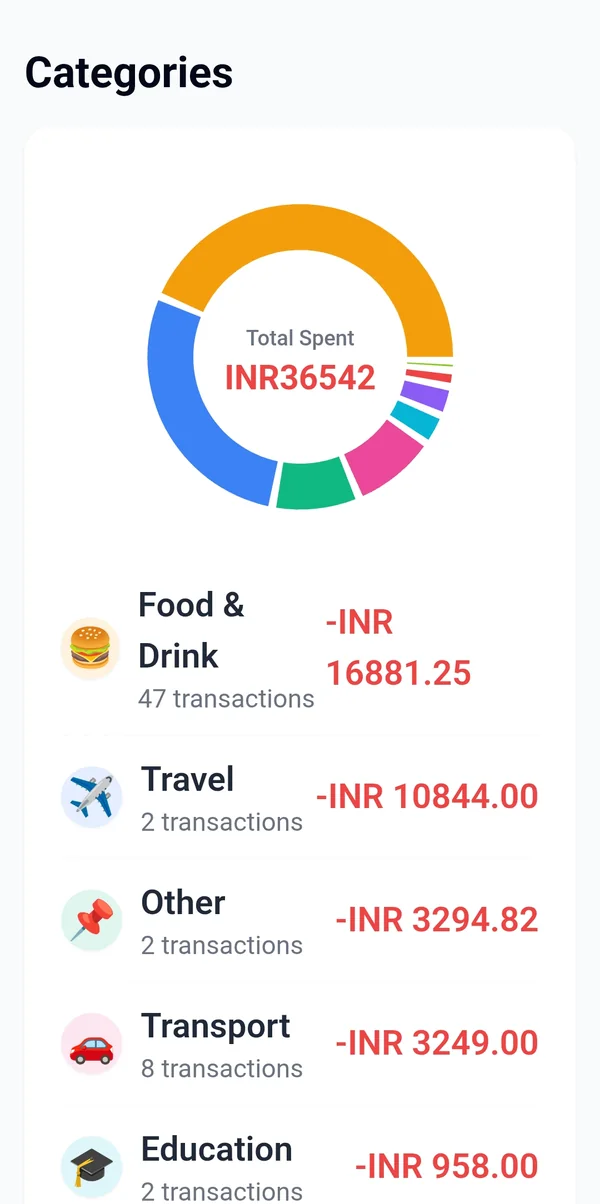
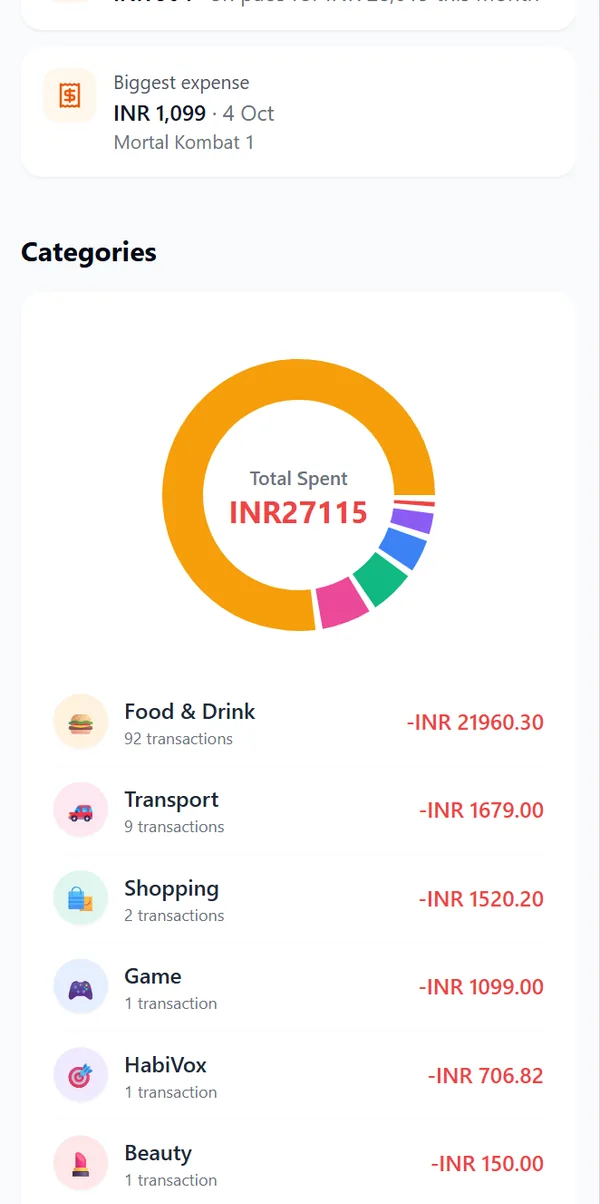
Update screenshots to the October app and describe new features

diff --git a/index.html b/index.html
@@ -82,7 +82,7 @@
       </div>
       <div class="hero__media">
         <div class="phone">
-          <img src="assets/screens/today.webp" width="600" height="1204" alt="HabiVox Today screen showing 93 percent of habits done and a Sleep habit with an 8 hour goal" fetchpriority="high">
+          <img src="assets/screens/today.webp" width="600" height="1204" alt="HabiVox Insights: today's summary at 92 percent, INR 5,200 saved this month by smoking less, and 56 percent monthly consistency" fetchpriority="high">
         </div>
       </div>
     </div>
@@ -98,14 +98,14 @@
           <li><svg class="icon" xmlns="http://www.w3.org/2000/svg" width="24" height="24" viewBox="0 0 24 24" fill="none" stroke="currentColor" stroke-width="1.75" stroke-linecap="round" stroke-linejoin="round" aria-hidden="true"><circle cx="12" cy="12" r="10"/><path d="m9 12 2 2 4-4"/></svg><h3>Yes or no</h3><p>Mark it done for the day.</p></li>
           <li><svg class="icon" xmlns="http://www.w3.org/2000/svg" width="24" height="24" viewBox="0 0 24 24" fill="none" stroke="currentColor" stroke-width="1.75" stroke-linecap="round" stroke-linejoin="round" aria-hidden="true"><line x1="4" x2="20" y1="9" y2="9"/><line x1="4" x2="20" y1="15" y2="15"/><line x1="10" x2="8" y1="3" y2="21"/><line x1="16" x2="14" y1="3" y2="21"/></svg><h3>Count</h3><p>Tap plus or minus as you go.</p></li>
           <li><svg class="icon" xmlns="http://www.w3.org/2000/svg" width="24" height="24" viewBox="0 0 24 24" fill="none" stroke="currentColor" stroke-width="1.75" stroke-linecap="round" stroke-linejoin="round" aria-hidden="true"><path d="M21.3 15.3a2.4 2.4 0 0 1 0 3.4l-2.6 2.6a2.4 2.4 0 0 1-3.4 0L2.7 8.7a2.41 2.41 0 0 1 0-3.4l2.6-2.6a2.41 2.41 0 0 1 3.4 0Z"/><path d="m14.5 12.5 2-2"/><path d="m11.5 9.5 2-2"/><path d="m8.5 6.5 2-2"/><path d="m17.5 15.5 2-2"/></svg><h3>Amount</h3><p>Steps, litres, calories or your own unit.</p></li>
-          <li><svg class="icon" xmlns="http://www.w3.org/2000/svg" width="24" height="24" viewBox="0 0 24 24" fill="none" stroke="currentColor" stroke-width="1.75" stroke-linecap="round" stroke-linejoin="round" aria-hidden="true"><line x1="10" x2="14" y1="2" y2="2"/><line x1="12" x2="15" y1="14" y2="11"/><circle cx="12" cy="14" r="8"/></svg><h3>Duration</h3><p>Start the timer and it logs the minutes.</p></li>
-          <li><svg class="icon" xmlns="http://www.w3.org/2000/svg" width="24" height="24" viewBox="0 0 24 24" fill="none" stroke="currentColor" stroke-width="1.75" stroke-linecap="round" stroke-linejoin="round" aria-hidden="true"><path d="M4.929 4.929 19.07 19.071"/><circle cx="12" cy="12" r="10"/></svg><h3>Quit habits</h3><p>Set a daily maximum, like 3 cups of coffee.</p></li>
+          <li><svg class="icon" xmlns="http://www.w3.org/2000/svg" width="24" height="24" viewBox="0 0 24 24" fill="none" stroke="currentColor" stroke-width="1.75" stroke-linecap="round" stroke-linejoin="round" aria-hidden="true"><line x1="10" x2="14" y1="2" y2="2"/><line x1="12" x2="15" y1="14" y2="11"/><circle cx="12" cy="14" r="8"/></svg><h3>Duration</h3><p>Start a timer, or type the hours and minutes.</p></li>
+          <li><svg class="icon" xmlns="http://www.w3.org/2000/svg" width="24" height="24" viewBox="0 0 24 24" fill="none" stroke="currentColor" stroke-width="1.75" stroke-linecap="round" stroke-linejoin="round" aria-hidden="true"><path d="M4.929 4.929 19.07 19.071"/><circle cx="12" cy="12" r="10"/></svg><h3>Quit habits</h3><p>Set a daily maximum and a cost, and see the money you save.</p></li>
           <li><svg class="icon" xmlns="http://www.w3.org/2000/svg" width="24" height="24" viewBox="0 0 24 24" fill="none" stroke="currentColor" stroke-width="1.75" stroke-linecap="round" stroke-linejoin="round" aria-hidden="true"><path d="M10.268 21a2 2 0 0 0 3.464 0"/><path d="M3.262 15.326A1 1 0 0 0 4 17h16a1 1 0 0 0 .74-1.673C19.41 13.956 18 12.499 18 8A6 6 0 0 0 6 8c0 4.499-1.411 5.956-2.738 7.326"/></svg><h3>Reminders</h3><p>Pick a reminder time for each habit.</p></li>
         </ul>
       </div>
       <div class="feature__media">
         <div class="phone">
-          <img src="assets/screens/habits.webp" width="600" height="1204" alt="List of habits in HabiVox: Work as a count, Drink water in litres, Sleep and Walk with timers, and Drink less caffeine as a quit habit" loading="lazy">
+          <img src="assets/screens/habits.webp" width="600" height="1204" alt="HabiVox Today screen: Smoke less as a quit habit with INR 500 saved today, Sleep at 8 hours 20 minutes, Drink water in litres and Walk in steps" loading="lazy">
         </div>
       </div>
     </div>
@@ -119,7 +119,7 @@
         <p class="lead">A monthly calendar shades each day by how much you got done.</p>
         <ul class="points">
           <li><svg class="icon" xmlns="http://www.w3.org/2000/svg" width="24" height="24" viewBox="0 0 24 24" fill="none" stroke="currentColor" stroke-width="1.75" stroke-linecap="round" stroke-linejoin="round" aria-hidden="true"><path d="M8 2v4"/><path d="M16 2v4"/><rect width="18" height="18" x="3" y="4" rx="2"/><path d="M3 10h18"/><path d="M8 14h.01"/><path d="M12 14h.01"/><path d="M16 14h.01"/><path d="M8 18h.01"/><path d="M12 18h.01"/><path d="M16 18h.01"/></svg><h3>Calendar view</h3><p>The whole month at a glance.</p></li>
-          <li><svg class="icon" xmlns="http://www.w3.org/2000/svg" width="24" height="24" viewBox="0 0 24 24" fill="none" stroke="currentColor" stroke-width="1.75" stroke-linecap="round" stroke-linejoin="round" aria-hidden="true"><path d="M3 3v16a2 2 0 0 0 2 2h16"/><path d="M18 17V9"/><path d="M13 17V5"/><path d="M8 17v-3"/></svg><h3>Per habit</h3><p>Days hit out of days tracked.</p></li>
+          <li><svg class="icon" xmlns="http://www.w3.org/2000/svg" width="24" height="24" viewBox="0 0 24 24" fill="none" stroke="currentColor" stroke-width="1.75" stroke-linecap="round" stroke-linejoin="round" aria-hidden="true"><path d="M3 3v16a2 2 0 0 0 2 2h16"/><path d="M18 17V9"/><path d="M13 17V5"/><path d="M8 17v-3"/></svg><h3>Per habit</h3><p>Average, best and worst day, and whether it is slipping.</p></li>
           <li><svg class="icon" xmlns="http://www.w3.org/2000/svg" width="24" height="24" viewBox="0 0 24 24" fill="none" stroke="currentColor" stroke-width="1.75" stroke-linecap="round" stroke-linejoin="round" aria-hidden="true"><path d="M16 7h6v6"/><path d="m22 7-8.5 8.5-5-5L2 17"/></svg><h3>Monthly consistency</h3><p>One number for the whole month.</p></li>
           <li><svg class="icon" xmlns="http://www.w3.org/2000/svg" width="24" height="24" viewBox="0 0 24 24" fill="none" stroke="currentColor" stroke-width="1.75" stroke-linecap="round" stroke-linejoin="round" aria-hidden="true"><path d="m17 2 4 4-4 4"/><path d="M3 11v-1a4 4 0 0 1 4-4h14"/><path d="m7 22-4-4 4-4"/><path d="M21 13v1a4 4 0 0 1-4 4H3"/></svg><h3>Past entries</h3><p>Forgot yesterday? Log it later.</p></li>
         </ul>
@@ -127,10 +127,10 @@
       <div class="feature__media">
         <div class="phones">
           <div class="phone">
-            <img src="assets/screens/calendar.webp" width="600" height="1204" alt="HabiVox calendar for May 2026 with completed days shaded green" loading="lazy">
+            <img src="assets/screens/calendar.webp" width="600" height="1204" alt="HabiVox calendar for October 2026 with each day shaded green by how much got done" loading="lazy">
           </div>
           <div class="phone">
-            <img src="assets/screens/consistency.webp" width="600" height="1204" alt="HabiVox insights showing 62 percent monthly consistency and progress for Sleep, Walk and Drink water" loading="lazy">
+            <img src="assets/screens/consistency.webp" width="600" height="1204" alt="HabiVox habit details for Drink water and Walk: average, best day, worst day and a Declining label" loading="lazy">
           </div>
         </div>
       </div>
@@ -146,17 +146,18 @@
         <ul class="points">
           <li><svg class="icon" xmlns="http://www.w3.org/2000/svg" width="24" height="24" viewBox="0 0 24 24" fill="none" stroke="currentColor" stroke-width="1.75" stroke-linecap="round" stroke-linejoin="round" aria-hidden="true"><path d="M19 7V4a1 1 0 0 0-1-1H5a2 2 0 0 0 0 4h15a1 1 0 0 1 1 1v4h-3a2 2 0 0 0 0 4h3a1 1 0 0 0 1-1v-2a1 1 0 0 0-1-1"/><path d="M3 5v14a2 2 0 0 0 2 2h15a1 1 0 0 0 1-1v-4"/></svg><h3>Income and expenses</h3><p>With a running balance.</p></li>
           <li><svg class="icon" xmlns="http://www.w3.org/2000/svg" width="24" height="24" viewBox="0 0 24 24" fill="none" stroke="currentColor" stroke-width="1.75" stroke-linecap="round" stroke-linejoin="round" aria-hidden="true"><path d="M13.172 2a2 2 0 0 1 1.414.586l6.71 6.71a2.4 2.4 0 0 1 0 3.408l-4.592 4.592a2.4 2.4 0 0 1-3.408 0l-6.71-6.71A2 2 0 0 1 6 9.172V3a1 1 0 0 1 1-1z"/><path d="M2 7v6.172a2 2 0 0 0 .586 1.414l6.71 6.71a2.4 2.4 0 0 0 3.191.193"/><circle cx="10.5" cy="6.5" r=".5" fill="currentColor"/></svg><h3>Categories</h3><p>A total for food, travel and the rest.</p></li>
-          <li><svg class="icon" xmlns="http://www.w3.org/2000/svg" width="24" height="24" viewBox="0 0 24 24" fill="none" stroke="currentColor" stroke-width="1.75" stroke-linecap="round" stroke-linejoin="round" aria-hidden="true"><path d="M3 3v16a2 2 0 0 0 2 2h16"/><path d="M18 17V9"/><path d="M13 17V5"/><path d="M8 17v-3"/></svg><h3>Cash flow</h3><p>Spending charted day by day.</p></li>
+          <li><svg class="icon" xmlns="http://www.w3.org/2000/svg" width="24" height="24" viewBox="0 0 24 24" fill="none" stroke="currentColor" stroke-width="1.75" stroke-linecap="round" stroke-linejoin="round" aria-hidden="true"><path d="M3 3v16a2 2 0 0 0 2 2h16"/><path d="M18 17V9"/><path d="M13 17V5"/><path d="M8 17v-3"/></svg><h3>Cash flow</h3><p>Spending charted day by day, compared with last month.</p></li>
+          <li><svg class="icon" xmlns="http://www.w3.org/2000/svg" width="24" height="24" viewBox="0 0 24 24" fill="none" stroke="currentColor" stroke-width="1.75" stroke-linecap="round" stroke-linejoin="round" aria-hidden="true"><path d="M4 14a1 1 0 0 1-.78-1.63l9.9-10.2a.5.5 0 0 1 .86.46l-1.92 6.02A1 1 0 0 0 13 10h7a1 1 0 0 1 .78 1.63l-9.9 10.2a.5.5 0 0 1-.86-.46l1.92-6.02A1 1 0 0 0 11 14z"/></svg><h3>Quick add</h3><p>One tap repeats a recent expense.</p></li>
           <li><svg class="icon" xmlns="http://www.w3.org/2000/svg" width="24" height="24" viewBox="0 0 24 24" fill="none" stroke="currentColor" stroke-width="1.75" stroke-linecap="round" stroke-linejoin="round" aria-hidden="true"><circle cx="8" cy="8" r="6"/><path d="M18.09 10.37A6 6 0 1 1 10.34 18"/><path d="M7 6h1v4"/><path d="m16.71 13.88.7.71-2.82 2.82"/></svg><h3>10 currencies</h3><p>Including INR, USD, EUR and GBP.</p></li>
         </ul>
       </div>
       <div class="feature__media">
         <div class="phones">
           <div class="phone">
-            <img src="assets/screens/money.webp" width="600" height="1204" alt="HabiVox Money screen for May 2026 with balance, income, expenses and a daily spending chart" loading="lazy">
+            <img src="assets/screens/money.webp" width="600" height="1204" alt="HabiVox Money screen for October 2026 with balance, one tap Quick add buttons and a daily spending chart" loading="lazy">
           </div>
           <div class="phone">
-            <img src="assets/screens/categories.webp" width="600" height="1204" alt="HabiVox spending categories: Food and Drink, Travel, Other, Transport and Education with totals" loading="lazy">
+            <img src="assets/screens/categories.webp" width="600" height="1204" alt="HabiVox spending categories: Food and Drink, Transport, Shopping, Game and Beauty with totals, and the biggest expense of the month" loading="lazy">
           </div>
         </div>
       </div>
@@ -171,7 +172,7 @@
         <p class="lead">Once a week, the coach reads your last seven days and plans each day ahead.</p>
         <ul class="points">
           <li><svg class="icon" xmlns="http://www.w3.org/2000/svg" width="24" height="24" viewBox="0 0 24 24" fill="none" stroke="currentColor" stroke-width="1.75" stroke-linecap="round" stroke-linejoin="round" aria-hidden="true"><path d="M8 2v4"/><path d="M16 2v4"/><rect width="18" height="18" x="3" y="4" rx="2"/><path d="M3 10h18"/><path d="M8 14h.01"/><path d="M12 14h.01"/><path d="M16 14h.01"/><path d="M8 18h.01"/><path d="M12 18h.01"/><path d="M16 18h.01"/></svg><h3>A task for every day</h3><p>Timed around your own daily schedule.</p></li>
-          <li><svg class="icon" xmlns="http://www.w3.org/2000/svg" width="24" height="24" viewBox="0 0 24 24" fill="none" stroke="currentColor" stroke-width="1.75" stroke-linecap="round" stroke-linejoin="round" aria-hidden="true"><path d="M11.017 2.814a1 1 0 0 1 1.966 0l1.051 5.558a2 2 0 0 0 1.594 1.594l5.558 1.051a1 1 0 0 1 0 1.966l-5.558 1.051a2 2 0 0 0-1.594 1.594l-1.051 5.558a1 1 0 0 1-1.966 0l-1.051-5.558a2 2 0 0 0-1.594-1.594l-5.558-1.051a1 1 0 0 1 0-1.966l5.558-1.051a2 2 0 0 0 1.594-1.594z"/><path d="M20 2v4"/><path d="M22 4h-4"/><circle cx="4" cy="20" r="2"/></svg><h3>Today's focus</h3><p>The task for today, with live progress.</p></li>
+          <li><svg class="icon" xmlns="http://www.w3.org/2000/svg" width="24" height="24" viewBox="0 0 24 24" fill="none" stroke="currentColor" stroke-width="1.75" stroke-linecap="round" stroke-linejoin="round" aria-hidden="true"><path d="M11.017 2.814a1 1 0 0 1 1.966 0l1.051 5.558a2 2 0 0 0 1.594 1.594l5.558 1.051a1 1 0 0 1 0 1.966l-5.558 1.051a2 2 0 0 0-1.594 1.594l-1.051 5.558a1 1 0 0 1-1.966 0l-1.051-5.558a2 2 0 0 0-1.594-1.594l-5.558-1.051a1 1 0 0 1 0-1.966l5.558-1.051a2 2 0 0 0 1.594-1.594z"/><path d="M20 2v4"/><path d="M22 4h-4"/><circle cx="4" cy="20" r="2"/></svg><h3>Weekly score</h3><p>A score out of 10, compared with last week.</p></li>
           <li><svg class="icon" xmlns="http://www.w3.org/2000/svg" width="24" height="24" viewBox="0 0 24 24" fill="none" stroke="currentColor" stroke-width="1.75" stroke-linecap="round" stroke-linejoin="round" aria-hidden="true"><path d="M22 12h-2.48a2 2 0 0 0-1.93 1.46l-2.35 8.36a.25.25 0 0 1-.48 0L9.24 2.18a.25.25 0 0 0-.48 0l-2.35 8.36A2 2 0 0 1 4.49 12H2"/></svg><h3>This week so far</h3><p>Flags habits that are starting to slip.</p></li>
           <li><svg class="icon" xmlns="http://www.w3.org/2000/svg" width="24" height="24" viewBox="0 0 24 24" fill="none" stroke="currentColor" stroke-width="1.75" stroke-linecap="round" stroke-linejoin="round" aria-hidden="true"><path d="M3 12a9 9 0 0 1 9-9 9.75 9.75 0 0 1 6.74 2.74L21 8"/><path d="M21 3v5h-5"/><path d="M21 12a9 9 0 0 1-9 9 9.75 9.75 0 0 1-6.74-2.74L3 16"/><path d="M8 16H3v5"/></svg><h3>Refresh when you need</h3><p>Once a day, up to 3 times a week.</p></li>
         </ul>
@@ -179,7 +180,7 @@
       </div>
       <div class="feature__media">
         <div class="phone">
-          <img src="assets/screens/ai-coach.webp" width="600" height="1204" alt="HabiVox AI Coach screen with a weekly summary, Refresh button, next weekly update date and today's focus task" loading="lazy">
+          <img src="assets/screens/ai-coach.webp" width="600" height="1204" alt="HabiVox AI Coach screen with a weekly summary, Refresh button, This week so far progress and a day by day action plan" loading="lazy">
         </div>
       </div>
     </div>

diff --git a/src/index.html b/src/index.html
@@ -16,7 +16,7 @@
       </div>
       <div class="hero__media">
         <div class="phone">
-          <img src="assets/screens/today.webp" width="600" height="1204" alt="HabiVox Today screen showing 93 percent of habits done and a Sleep habit with an 8 hour goal" fetchpriority="high">
+          <img src="assets/screens/today.webp" width="600" height="1204" alt="HabiVox Insights: today's summary at 92 percent, INR 5,200 saved this month by smoking less, and 56 percent monthly consistency" fetchpriority="high">
         </div>
       </div>
     </div>
@@ -32,14 +32,14 @@
           <li>{{icon:circle-check}}<h3>Yes or no</h3><p>Mark it done for the day.</p></li>
           <li>{{icon:hash}}<h3>Count</h3><p>Tap plus or minus as you go.</p></li>
           <li>{{icon:ruler}}<h3>Amount</h3><p>Steps, litres, calories or your own unit.</p></li>
-          <li>{{icon:timer}}<h3>Duration</h3><p>Start the timer and it logs the minutes.</p></li>
-          <li>{{icon:ban}}<h3>Quit habits</h3><p>Set a daily maximum, like 3 cups of coffee.</p></li>
+          <li>{{icon:timer}}<h3>Duration</h3><p>Start a timer, or type the hours and minutes.</p></li>
+          <li>{{icon:ban}}<h3>Quit habits</h3><p>Set a daily maximum and a cost, and see the money you save.</p></li>
           <li>{{icon:bell}}<h3>Reminders</h3><p>Pick a reminder time for each habit.</p></li>
         </ul>
       </div>
       <div class="feature__media">
         <div class="phone">
-          <img src="assets/screens/habits.webp" width="600" height="1204" alt="List of habits in HabiVox: Work as a count, Drink water in litres, Sleep and Walk with timers, and Drink less caffeine as a quit habit" loading="lazy">
+          <img src="assets/screens/habits.webp" width="600" height="1204" alt="HabiVox Today screen: Smoke less as a quit habit with INR 500 saved today, Sleep at 8 hours 20 minutes, Drink water in litres and Walk in steps" loading="lazy">
         </div>
       </div>
     </div>
@@ -53,7 +53,7 @@
         <p class="lead">A monthly calendar shades each day by how much you got done.</p>
         <ul class="points">
           <li>{{icon:calendar-days}}<h3>Calendar view</h3><p>The whole month at a glance.</p></li>
-          <li>{{icon:chart-column}}<h3>Per habit</h3><p>Days hit out of days tracked.</p></li>
+          <li>{{icon:chart-column}}<h3>Per habit</h3><p>Average, best and worst day, and whether it is slipping.</p></li>
           <li>{{icon:trending-up}}<h3>Monthly consistency</h3><p>One number for the whole month.</p></li>
           <li>{{icon:repeat}}<h3>Past entries</h3><p>Forgot yesterday? Log it later.</p></li>
         </ul>
@@ -61,10 +61,10 @@
       <div class="feature__media">
         <div class="phones">
           <div class="phone">
-            <img src="assets/screens/calendar.webp" width="600" height="1204" alt="HabiVox calendar for May 2026 with completed days shaded green" loading="lazy">
+            <img src="assets/screens/calendar.webp" width="600" height="1204" alt="HabiVox calendar for October 2026 with each day shaded green by how much got done" loading="lazy">
           </div>
           <div class="phone">
-            <img src="assets/screens/consistency.webp" width="600" height="1204" alt="HabiVox insights showing 62 percent monthly consistency and progress for Sleep, Walk and Drink water" loading="lazy">
+            <img src="assets/screens/consistency.webp" width="600" height="1204" alt="HabiVox habit details for Drink water and Walk: average, best day, worst day and a Declining label" loading="lazy">
           </div>
         </div>
       </div>
@@ -80,17 +80,18 @@
         <ul class="points">
           <li>{{icon:wallet}}<h3>Income and expenses</h3><p>With a running balance.</p></li>
           <li>{{icon:tags}}<h3>Categories</h3><p>A total for food, travel and the rest.</p></li>
-          <li>{{icon:chart-column}}<h3>Cash flow</h3><p>Spending charted day by day.</p></li>
+          <li>{{icon:chart-column}}<h3>Cash flow</h3><p>Spending charted day by day, compared with last month.</p></li>
+          <li>{{icon:zap}}<h3>Quick add</h3><p>One tap repeats a recent expense.</p></li>
           <li>{{icon:coins}}<h3>10 currencies</h3><p>Including INR, USD, EUR and GBP.</p></li>
         </ul>
       </div>
       <div class="feature__media">
         <div class="phones">
           <div class="phone">
-            <img src="assets/screens/money.webp" width="600" height="1204" alt="HabiVox Money screen for May 2026 with balance, income, expenses and a daily spending chart" loading="lazy">
+            <img src="assets/screens/money.webp" width="600" height="1204" alt="HabiVox Money screen for October 2026 with balance, one tap Quick add buttons and a daily spending chart" loading="lazy">
           </div>
           <div class="phone">
-            <img src="assets/screens/categories.webp" width="600" height="1204" alt="HabiVox spending categories: Food and Drink, Travel, Other, Transport and Education with totals" loading="lazy">
+            <img src="assets/screens/categories.webp" width="600" height="1204" alt="HabiVox spending categories: Food and Drink, Transport, Shopping, Game and Beauty with totals, and the biggest expense of the month" loading="lazy">
           </div>
         </div>
       </div>
@@ -105,7 +106,7 @@
         <p class="lead">Once a week, the coach reads your last seven days and plans each day ahead.</p>
         <ul class="points">
           <li>{{icon:calendar-days}}<h3>A task for every day</h3><p>Timed around your own daily schedule.</p></li>
-          <li>{{icon:sparkles}}<h3>Today's focus</h3><p>The task for today, with live progress.</p></li>
+          <li>{{icon:sparkles}}<h3>Weekly score</h3><p>A score out of 10, compared with last week.</p></li>
           <li>{{icon:activity}}<h3>This week so far</h3><p>Flags habits that are starting to slip.</p></li>
           <li>{{icon:refresh-cw}}<h3>Refresh when you need</h3><p>Once a day, up to 3 times a week.</p></li>
         </ul>
@@ -113,7 +114,7 @@
       </div>
       <div class="feature__media">
         <div class="phone">
-          <img src="assets/screens/ai-coach.webp" width="600" height="1204" alt="HabiVox AI Coach screen with a weekly summary, Refresh button, next weekly update date and today's focus task" loading="lazy">
+          <img src="assets/screens/ai-coach.webp" width="600" height="1204" alt="HabiVox AI Coach screen with a weekly summary, Refresh button, This week so far progress and a day by day action plan" loading="lazy">
         </div>
       </div>
     </div>
